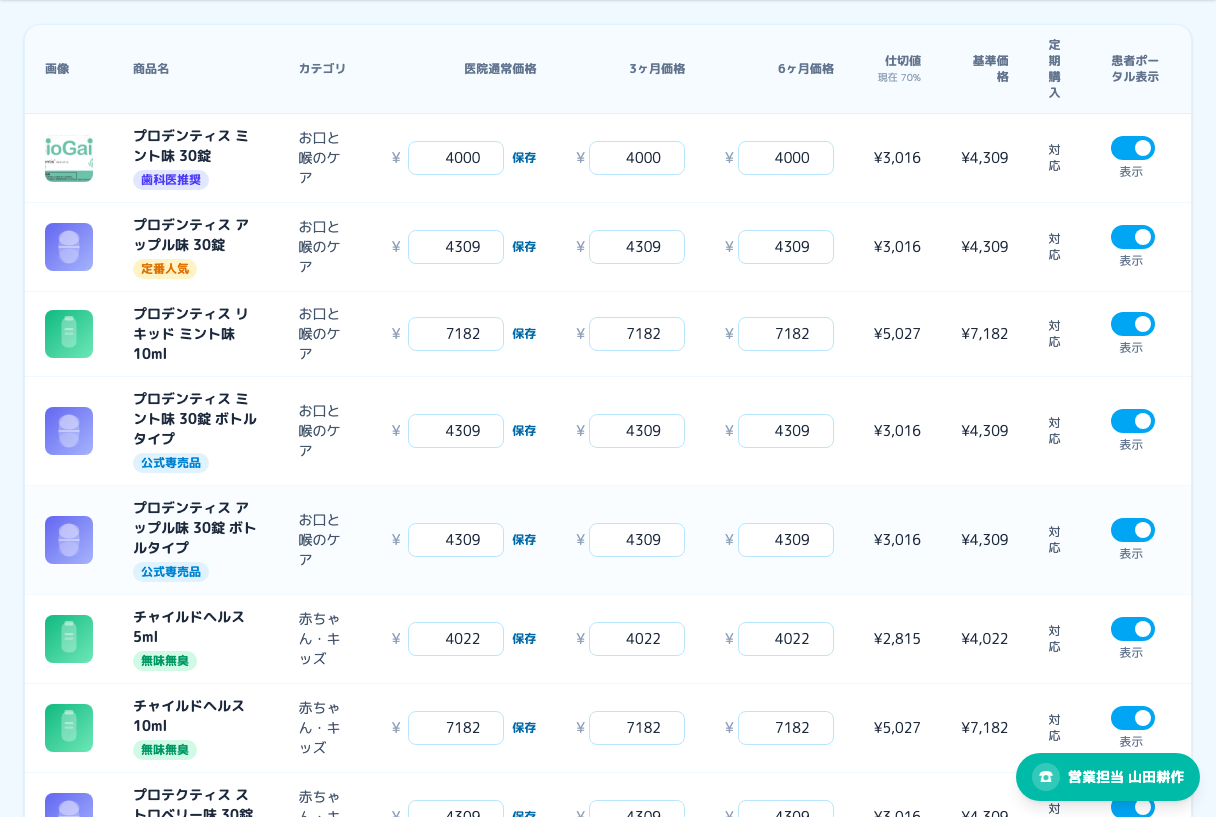
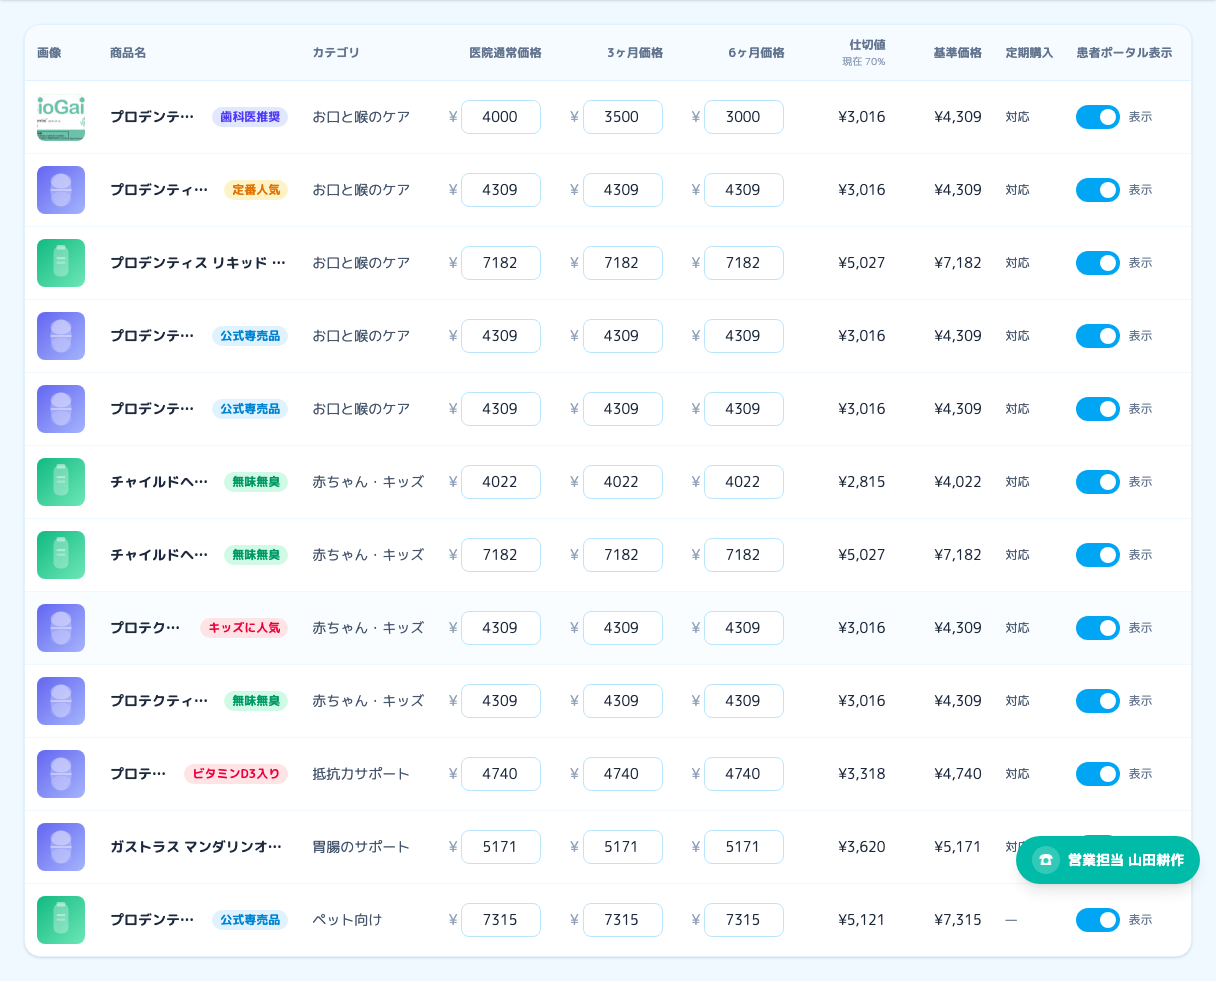
refactor: streamline product price editing

diff --git a/src/app/admin/products/page.tsx b/src/app/admin/products/page.tsx
@@ -24,6 +24,7 @@ type ProductWithVisibility = Product & {
   threeMonthPrice: number;
   sixMonthPrice: number;
 };
+type EditablePriceField = 'clinicPrice' | 'threeMonthPrice' | 'sixMonthPrice';
 
 export default function AdminProductsPage() {
   const { data: session, status: sessionStatus } = useSession();
@@ -34,7 +35,8 @@ export default function AdminProductsPage() {
   const [products, setProducts] = useSafeState<ProductWithVisibility[]>([]);
   const [loading, setLoading] = useSafeState(true);
   const [error, setError] = useSafeState<string | null>(null);
-  const [savingId, setSavingId] = useState<string | null>(null);
+  const [saving, setSaving] = useState(false);
+  const [dirtyIds, setDirtyIds] = useState<Set<string>>(() => new Set());
 
   const fetchProducts = useCallback(() => {
     fetch('/api/admin/product-settings')
@@ -44,6 +46,7 @@ export default function AdminProductsPage() {
       })
       .then((data) => {
         setProducts(data.products ?? []);
+        setDirtyIds(new Set());
         setError(null);
       })
       .catch((e) => {
@@ -58,8 +61,8 @@ export default function AdminProductsPage() {
   }, [ready, isClinicRole, fetchProducts]);
 
   const handleToggle = async (product: ProductWithVisibility) => {
-    if (savingId) return;
-    setSavingId(product.id);
+    if (saving) return;
+    setSaving(true);
     try {
       const res = await fetch('/api/admin/product-settings', {
         method: 'PATCH',
@@ -81,38 +84,53 @@ export default function AdminProductsPage() {
       setProducts((prev) =>
         prev.map((p) => (p.id === setting.product_id ? { ...p, isVisible: setting.is_visible } : p)),
       );
+      setDirtyIds((current) => {
+        const next = new Set(current);
+        next.delete(product.id);
+        return next;
+      });
       showToast(setting.is_visible ? '患者ポータルに表示します' : '患者ポータルで非表示にしました');
     } catch (e) {
       showToast(e instanceof Error ? e.message : 'エラーが発生しました');
     } finally {
-      setSavingId(null);
+      setSaving(false);
     }
   };
 
-  const handlePriceSave = async (product: ProductWithVisibility) => {
-    if (savingId || ![product.clinicPrice, product.threeMonthPrice, product.sixMonthPrice]
-      .every((price) => Number.isInteger(price) && price >= 0)) return;
-    setSavingId(product.id);
+  const updatePrice = (productId: string, field: EditablePriceField, value: number) => {
+    setProducts((current) => current.map((item) => item.id === productId ? { ...item, [field]: value } : item));
+    setDirtyIds((current) => new Set(current).add(productId));
+  };
+
+  const handlePriceSave = async () => {
+    const targets = products.filter((product) => dirtyIds.has(product.id));
+    if (saving || targets.length === 0 || targets.some((product) =>
+      ![product.clinicPrice, product.threeMonthPrice, product.sixMonthPrice]
+        .every((price) => Number.isInteger(price) && price >= 0 && price <= 10_000_000))) return;
+    setSaving(true);
     try {
-      const res = await fetch('/api/admin/product-settings', {
-        method: 'PATCH',
-        headers: { 'Content-Type': 'application/json' },
-        body: JSON.stringify({
-          productId: product.id,
-          isVisible: product.isVisible,
-          clinicPrice: product.clinicPrice,
-          threeMonthPrice: product.threeMonthPrice,
-          sixMonthPrice: product.sixMonthPrice,
-        }),
-      });
-      const body = await res.json().catch(() => null);
-      if (!res.ok) throw new Error(body?.error ?? '医院価格の更新に失敗しました');
-      showToast('医院通常価格と定期購入価格を更新しました');
+      await Promise.all(targets.map(async (product) => {
+        const res = await fetch('/api/admin/product-settings', {
+          method: 'PATCH',
+          headers: { 'Content-Type': 'application/json' },
+          body: JSON.stringify({
+            productId: product.id,
+            isVisible: product.isVisible,
+            clinicPrice: product.clinicPrice,
+            threeMonthPrice: product.threeMonthPrice,
+            sixMonthPrice: product.sixMonthPrice,
+          }),
+        });
+        const body = await res.json().catch(() => null);
+        if (!res.ok) throw new Error(body?.error ?? `${product.name}の価格を更新できませんでした`);
+      }));
+      setDirtyIds(new Set());
+      showToast(`${targets.length}件の価格を更新しました`);
     } catch (e) {
       showToast(e instanceof Error ? e.message : 'エラーが発生しました');
       fetchProducts();
     } finally {
-      setSavingId(null);
+      setSaving(false);
     }
   };
 
@@ -125,9 +143,12 @@ export default function AdminProductsPage() {
           <div className="fixed top-5 left-1/2 -translate-x-1/2 z-50 bg-sky-600 text-white text-base px-5 py-3 rounded-2xl shadow-xl">{toast}</div>
         )}
 
-        <header className="bg-white border-b border-sky-100 px-4 sm:px-6 py-4 shadow-sm">
-          <h1 className="text-slate-800 font-bold text-xl">商品管理</h1>
-          <p className="text-slate-600 text-sm mt-0.5">患者様ポータルへの表示、医院通常価格、3ヶ月・6ヶ月の定期購入価格を管理します。</p>
+        <header className="flex items-center justify-between gap-4 bg-white border-b border-sky-100 px-4 sm:px-6 py-4 shadow-sm">
+          <div className="min-w-0">
+            <h1 className="text-slate-800 font-bold text-xl">商品管理</h1>
+            <p className="text-slate-600 text-sm mt-0.5">患者様ポータルへの表示、医院通常価格、3ヶ月・6ヶ月の定期購入価格を管理します。</p>
+          </div>
+          {isClinicRole && <button type="button" onClick={() => void handlePriceSave()} disabled={loading || saving || dirtyIds.size === 0} className="shrink-0 rounded-xl bg-sky-600 px-5 py-2.5 text-sm font-bold text-white shadow-sm transition-colors hover:bg-sky-500 disabled:bg-slate-200 disabled:text-slate-400 disabled:shadow-none">{saving ? '保存中…' : `変更を保存${dirtyIds.size > 0 ? `（${dirtyIds.size}件）` : ''}`}</button>}
         </header>
 
         <main className="flex-1 p-5 sm:p-6">
@@ -156,52 +177,57 @@ export default function AdminProductsPage() {
 
               <Card theme="sky" className="shadow-sm overflow-hidden">
                 <div className="overflow-x-auto">
-                  <table className="w-full text-sm">
+                  <table className="w-full min-w-[1152px] table-fixed text-sm">
+                    <colgroup>
+                      <col className="w-[72px]" /><col className="w-[200px]" /><col className="w-[120px]" />
+                      <col className="w-[130px]" /><col className="w-[120px]" /><col className="w-[120px]" />
+                      <col className="w-[100px]" /><col className="w-[95px]" /><col className="w-[70px]" /><col className="w-[125px]" />
+                    </colgroup>
                     <thead className="bg-sky-50/60 border-b border-sky-100">
                       <tr>
-                        <th className="text-left px-5 py-3 text-xs font-semibold text-slate-500">画像</th>
-                        <th className="text-left px-5 py-3 text-xs font-semibold text-slate-500">商品名</th>
-                        <th className="text-left px-5 py-3 text-xs font-semibold text-slate-500 hidden sm:table-cell">カテゴリ</th>
-                        <th className="text-right px-5 py-3 text-xs font-semibold text-slate-500 whitespace-nowrap">医院通常価格</th>
-                        <th className="text-right px-5 py-3 text-xs font-semibold text-slate-500 whitespace-nowrap">3ヶ月価格</th>
-                        <th className="text-right px-5 py-3 text-xs font-semibold text-slate-500 whitespace-nowrap">6ヶ月価格</th>
-                        <th className="text-right px-5 py-3 text-xs font-semibold text-slate-500">仕切値<span className="mt-0.5 block text-[10px] font-normal text-slate-400">現在 {products[0]?.wholesaleRate ?? '未設定'}{products[0]?.wholesaleRate === null || products.length === 0 ? '' : '%'}</span></th>
-                        <th className="text-right px-5 py-3 text-xs font-semibold text-slate-500">基準価格</th>
-                        <th className="text-left px-5 py-3 text-xs font-semibold text-slate-500 hidden md:table-cell">定期購入</th>
-                        <th className="text-left px-5 py-3 text-xs font-semibold text-slate-500">患者ポータル表示</th>
+                        <th className="text-left px-3 py-3 text-xs font-semibold text-slate-500">画像</th>
+                        <th className="text-left px-3 py-3 text-xs font-semibold text-slate-500">商品名</th>
+                        <th className="text-left px-3 py-3 text-xs font-semibold text-slate-500 whitespace-nowrap">カテゴリ</th>
+                        <th className="text-right px-3 py-3 text-xs font-semibold text-slate-500 whitespace-nowrap">医院通常価格</th>
+                        <th className="text-right px-3 py-3 text-xs font-semibold text-slate-500 whitespace-nowrap">3ヶ月価格</th>
+                        <th className="text-right px-3 py-3 text-xs font-semibold text-slate-500 whitespace-nowrap">6ヶ月価格</th>
+                        <th className="text-right px-3 py-3 text-xs font-semibold text-slate-500">仕切値<span className="mt-0.5 block text-[10px] font-normal text-slate-400">現在 {products[0]?.wholesaleRate ?? '未設定'}{products[0]?.wholesaleRate === null || products.length === 0 ? '' : '%'}</span></th>
+                        <th className="text-right px-3 py-3 text-xs font-semibold text-slate-500 whitespace-nowrap">基準価格</th>
+                        <th className="text-left px-3 py-3 text-xs font-semibold text-slate-500 whitespace-nowrap">定期購入</th>
+                        <th className="text-left px-3 py-3 text-xs font-semibold text-slate-500 whitespace-nowrap">患者ポータル表示</th>
                       </tr>
                     </thead>
                     <tbody>
                       {loading && <LoadingState variant="table-row" colSpan={10} />}
                       {!loading && products.length === 0 && (
-                        <tr><td colSpan={10} className="px-5 py-8 text-center text-slate-400">公開中の商品がまだありません</td></tr>
+                        <tr><td colSpan={10} className="px-3 py-8 text-center text-slate-400">公開中の商品がまだありません</td></tr>
                       )}
                       {products.map((p) => (
-                        <tr key={p.id} className="border-b border-sky-50 last:border-0 hover:bg-sky-50/40">
-                          <td className="px-5 py-3"><ProductVisual type={p.image_type} imageUrl={p.image_url} className="h-12 w-12 rounded-lg flex items-center justify-center" /></td>
-                          <td className="px-5 py-3">
-                            <p className="text-slate-800 font-semibold">{p.name}</p>
+                        <tr key={p.id} className="h-[72px] border-b border-sky-50 last:border-0 hover:bg-sky-50/40">
+                          <td className="px-3 py-3"><ProductVisual type={p.image_type} imageUrl={p.image_url} className="h-12 w-12 rounded-lg flex items-center justify-center" /></td>
+                          <td className="px-3 py-3"><div className="flex min-w-0 items-center gap-2 whitespace-nowrap">
+                            <p title={p.name} className="min-w-0 truncate text-slate-800 font-semibold">{p.name}</p>
                             {p.badge && p.badge_color && (
-                              <span className={`inline-block mt-1 text-xs font-semibold px-2 py-0.5 rounded-full ${PRODUCT_BADGE_CLASS[p.badge_color]}`}>{p.badge}</span>
+                              <span className={`shrink-0 text-xs font-semibold px-2 py-0.5 rounded-full ${PRODUCT_BADGE_CLASS[p.badge_color]}`}>{p.badge}</span>
                             )}
-                          </td>
-                          <td className="px-5 py-3 text-slate-600 hidden sm:table-cell">{p.category}</td>
-                          <td className="px-5 py-3 text-right">
-                            <div className="flex items-center justify-end gap-2">
+                          </div></td>
+                          <td className="px-3 py-3 text-slate-600 whitespace-nowrap">{p.category}</td>
+                          <td className="px-3 py-3 text-right">
+                            <div className="flex items-center justify-end gap-1 whitespace-nowrap">
                               <span className="text-slate-400">¥</span>
-                              <input type="number" min={0} max={10000000} value={p.clinicPrice} aria-label={`${p.name}の医院通常価格`} onChange={(event) => setProducts((current) => current.map((item) => item.id === p.id ? { ...item, clinicPrice: Number(event.target.value) } : item))} className="w-24 rounded-lg border border-sky-200 bg-white px-2 py-1.5 text-right text-slate-800" />
-                              <button type="button" disabled={savingId !== null} onClick={() => void handlePriceSave(p)} className="shrink-0 whitespace-nowrap text-xs font-semibold text-sky-700 disabled:opacity-40">保存</button>
+                              <input type="number" min={0} max={10000000} value={p.clinicPrice} aria-label={`${p.name}の医院通常価格`} onChange={(event) => updatePrice(p.id, 'clinicPrice', Number(event.target.value))} className="w-20 rounded-lg border border-sky-200 bg-white px-2 py-1.5 text-right text-slate-800" />
                             </div>
                           </td>
-                          <td className="px-5 py-3 text-right"><div className="inline-flex items-center gap-1 whitespace-nowrap"><span className="text-slate-400">¥</span><input type="number" min={0} max={10000000} value={p.threeMonthPrice} aria-label={`${p.name}の3ヶ月価格`} onChange={(event) => setProducts((current) => current.map((item) => item.id === p.id ? { ...item, threeMonthPrice: Number(event.target.value) } : item))} className="w-24 rounded-lg border border-sky-200 bg-white px-2 py-1.5 text-right text-slate-800" /></div></td>
-                          <td className="px-5 py-3 text-right"><div className="inline-flex items-center gap-1 whitespace-nowrap"><span className="text-slate-400">¥</span><input type="number" min={0} max={10000000} value={p.sixMonthPrice} aria-label={`${p.name}の6ヶ月価格`} onChange={(event) => setProducts((current) => current.map((item) => item.id === p.id ? { ...item, sixMonthPrice: Number(event.target.value) } : item))} className="w-24 rounded-lg border border-sky-200 bg-white px-2 py-1.5 text-right text-slate-800" /></div></td>
-                          <td className="px-5 py-3 text-right text-slate-800 whitespace-nowrap">{p.wholesalePrice === null ? <span className="text-xs text-amber-600">契約未設定</span> : <>¥{p.wholesalePrice.toLocaleString()}</>}</td>
-                          <td className="px-5 py-3 text-right text-slate-800 whitespace-nowrap">¥{p.basePrice.toLocaleString()}</td>
-                          <td className="px-5 py-3 text-slate-600 text-xs hidden md:table-cell">{p.subscription_available ? '対応' : '—'}</td>
-                          <td className="px-5 py-3">
+                          <td className="px-3 py-3 text-right"><div className="inline-flex items-center gap-1 whitespace-nowrap"><span className="text-slate-400">¥</span><input type="number" min={0} max={10000000} value={p.threeMonthPrice} aria-label={`${p.name}の3ヶ月価格`} onChange={(event) => updatePrice(p.id, 'threeMonthPrice', Number(event.target.value))} className="w-20 rounded-lg border border-sky-200 bg-white px-2 py-1.5 text-right text-slate-800" /></div></td>
+                          <td className="px-3 py-3 text-right"><div className="inline-flex items-center gap-1 whitespace-nowrap"><span className="text-slate-400">¥</span><input type="number" min={0} max={10000000} value={p.sixMonthPrice} aria-label={`${p.name}の6ヶ月価格`} onChange={(event) => updatePrice(p.id, 'sixMonthPrice', Number(event.target.value))} className="w-20 rounded-lg border border-sky-200 bg-white px-2 py-1.5 text-right text-slate-800" /></div></td>
+                          <td className="px-3 py-3 text-right text-slate-800 whitespace-nowrap">{p.wholesalePrice === null ? <span className="text-xs text-amber-600">契約未設定</span> : <>¥{p.wholesalePrice.toLocaleString()}</>}</td>
+                          <td className="px-3 py-3 text-right text-slate-800 whitespace-nowrap">¥{p.basePrice.toLocaleString()}</td>
+                          <td className="px-3 py-3 text-slate-600 text-xs whitespace-nowrap">{p.subscription_available ? '対応' : '—'}</td>
+                          <td className="px-3 py-3">
+                            <div className="flex items-center whitespace-nowrap">
                             <button
                               onClick={() => handleToggle(p)}
-                              disabled={savingId !== null}
+                              disabled={saving}
                               aria-label={`${p.name}の表示切替`}
                               className={`relative inline-flex h-6 w-11 items-center rounded-full transition-colors disabled:opacity-50 ${
                                 p.isVisible ? 'bg-sky-500' : 'bg-slate-300'
@@ -214,6 +240,7 @@ export default function AdminProductsPage() {
                               />
                             </button>
                             <span className="ml-2 text-xs text-slate-500 align-middle">{p.isVisible ? '表示' : '非表示'}</span>
+                            </div>
                           </td>
                         </tr>
                       ))}

diff --git a/src/app/admin/products/page.test.tsx b/src/app/admin/products/page.test.tsx
@@ -98,6 +98,8 @@ describe('AdminProductsPage', () => {
     expect(screen.getByRole('spinbutton', { name: /6ヶ月価格/ })).toHaveValue(3580);
     expect(screen.getByText('現在 60%')).toBeInTheDocument();
     expect(screen.getByText('表示')).toBeInTheDocument();
+    expect(screen.getByRole('button', { name: '変更を保存' })).toBeDisabled();
+    expect(screen.queryByRole('button', { name: '保存' })).not.toBeInTheDocument();
   });
 
   it('トグルをクリックするとPATCHが飛び、表示状態が切り替わる（楽観的更新）', async () => {
@@ -127,7 +129,7 @@ describe('AdminProductsPage', () => {
     fireEvent.change(input, { target: { value: '4200' } });
     fireEvent.change(screen.getByRole('spinbutton', { name: /3ヶ月価格/ }), { target: { value: '3900' } });
     fireEvent.change(screen.getByRole('spinbutton', { name: /6ヶ月価格/ }), { target: { value: '3600' } });
-    fireEvent.click(screen.getByRole('button', { name: '保存' }));
+    fireEvent.click(screen.getByRole('button', { name: '変更を保存（1件）' }));
     await waitFor(() => expect(fetchMock).toHaveBeenCalledWith('/api/admin/product-settings', expect.objectContaining({ method: 'PATCH' })));
     const patchCall = fetchMock.mock.calls.find(([, init]) => (init as RequestInit)?.method === 'PATCH');
     expect(JSON.parse((patchCall![1] as RequestInit).body as string)).toMatchObject({ clinicPrice: 4200, threeMonthPrice: 3900, sixMonthPrice: 3600 });

diff --git a/src/app/bgj/manual/usageData.tsx b/src/app/bgj/manual/usageData.tsx
@@ -234,7 +234,7 @@ export const usageSections: UsageSection[] = [
                   >
                     <li>サイドバーの「商品管理」を開きます。商品写真と、左から医院通常価格・3ヶ月価格・6ヶ月価格・仕切値・基準価格を確認できます。</li>
                     <li>医院通常価格は通常購入、3ヶ月・6ヶ月価格は各定期購入コースに表示されます。期間別価格の初期値は医院通常価格です。</li>
-                    <li>変更する金額を入力して、同じ行の「保存」を押します。</li>
+                    <li>変更する金額を入力し、画面右上の「変更を保存」を押します。複数商品の変更はまとめて保存されます。</li>
                     <li>仕切値は基準価格と列見出しに表示される現在の仕切値率から自動計算され、医院側では変更できません。</li>
                     <li>患者様へ掲載しない商品は「患者ポータル表示」をオフにします。</li>
                   </Steps>

diff --git a/CLAUDE.md b/CLAUDE.md
@@ -493,3 +493,4 @@ DB変更SQLを提示するときは、以下をセットにする。
 29. **医院・患者の複数送り先と注文配送先履歴（2026-07-22）**。第3正規形の`delivery_destinations`で医院・患者それぞれが複数の送り先を所有できる。所有者は`clinic_customer_code`または`patient_id`の実FKどちらか一方に限定し、既定先は所有者ごとに最大1件とする。医院受け取りは注文医院の送り先、自宅配送は注文患者の送り先だけを選択可能で、共通RPCが所有者と有効状態を再検証する。注文時は`order_delivery_destinations`に選択元IDと住所スナップショットを1:1保存し、送り先変更後も過去注文を不変にする。送り先は物理削除禁止・`deleted_at`による論理削除とし、完了・キャンセル前の注文が参照中ならDBトリガーで削除を拒否する。医院・BGJの受注登録画面と患者ポータルで追加・選択・削除を行う。適用SQLは`supabase/migrations/20260722_delivery_destinations.sql`。DB変更時は同時更新必須のDB定義書（Excel・HTML・設計Markdown）にも反映済み。
 30. **商品写真の全ポータル表示と医院価格（2026-07-22）**。`products.price`をBGJ基準価格、`clinic_terms.wholesale_rate`を契約仕切値率、`clinic_product_settings.clinic_price`を医院が変更できる患者表示価格とする。仕切値は`round(基準価格×仕切値率÷100)`で都度算出し、導出値を保存しないことで第3正規形を維持する。医院価格がNULLなら基準価格を使用する。患者商品API・医院/BGJ受注候補・注文作成RPCは医院価格へ統一し、注文明細には注文時点の医院価格と`image_url_snapshot`を保存する。商品写真は医院の商品管理、患者の商品一覧・詳細・定期購入・受け取り画面へ表示する。適用SQLは`supabase/migrations/20260722_clinic_product_pricing.sql`。DB定義書3形式も同時更新する。
 31. **医院別定期購入価格と患者自宅配送先（2026-07-23）**。医院商品設定に3ヶ月・6ヶ月の月額を追加し、NULLの場合は医院通常価格へフォールバックする。同額の場合はNULLで保持し、既定値を重複保存しない。患者定期購入画面はハードコード割引を廃止して医院設定価格を表示する。自宅配送は患者の`delivery_destinations`から複数送り先を登録・選択する共通UIを使用する。適用SQLは`supabase/migrations/20260723_clinic_subscription_prices.sql`。DB変更時は生成元とDB定義書3形式を必ず同時更新する。
+32. **医院商品管理の一括保存と単行表示（2026-07-23）**。価格の保存操作は明細行ごとに置かず、画面右上の「変更を保存」に集約する。編集された商品のみをまとめて保存する。商品一覧は列幅を固定して各明細を1行表示し、狭い画面では文字を折り返さず横スクロールで全列を維持する。